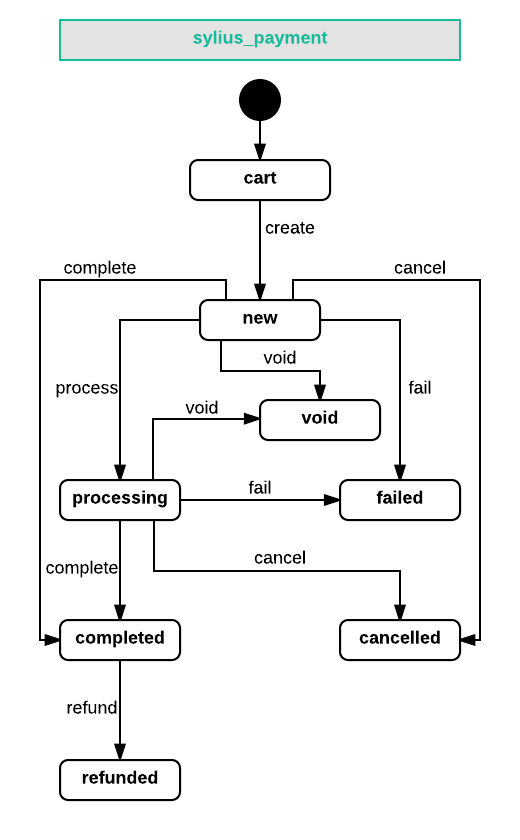
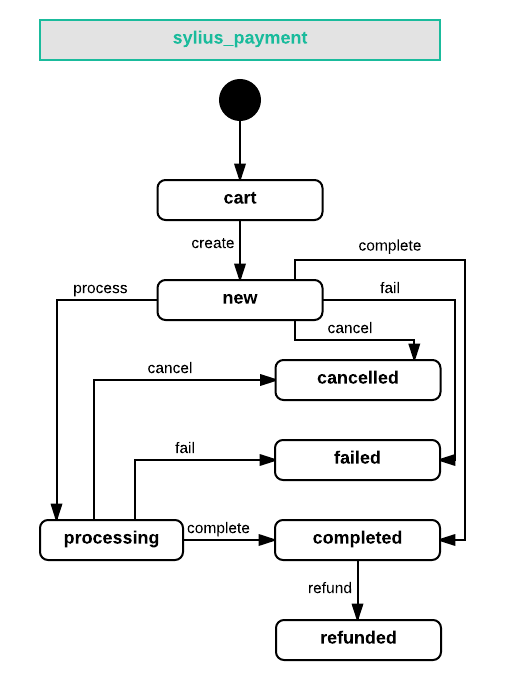
[Documentation][Book] sylius_payment state machine diagram - update

Changed region(s): [[0.0594, 0.0, 0.9505, 0.96]]

diff --git a/docs/book/orders/payments.rst b/docs/book/orders/payments.rst
@@ -18,7 +18,7 @@ Payment State Machine
 ---------------------
 
 A Payment that is assigned to an order will have it's own state machine with a few available states:
-``cart``, ``new``, ``processing``, ``completed``, ``failed``, ``cancelled``, ``void``, ``refunded``.
+``cart``, ``new``, ``processing``, ``completed``, ``failed``, ``cancelled``, ``refunded``.
 
 The available transitions between these states are:
 
@@ -43,9 +43,6 @@ The available transitions between these states are:
         refund:
             from: [completed]
             to: refunded
-        void:
-            from: [new, processing]
-            to: void
 
 .. image:: ../../_images/sylius_payment.png
     :align: center
